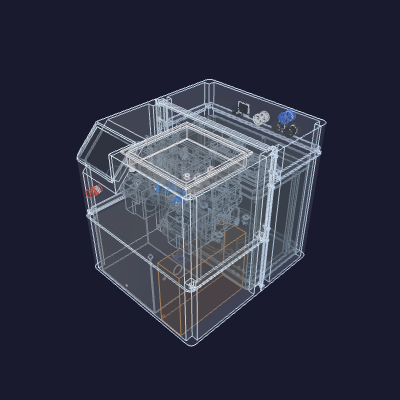
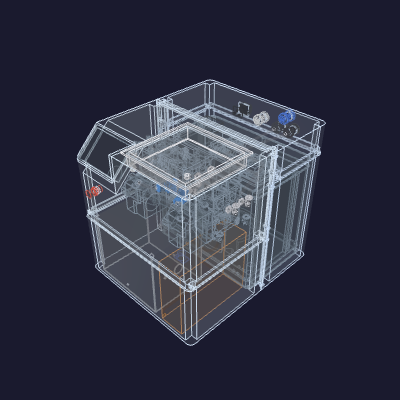
enclosure: turn both nozzle outlets up to the rear bulkheads — no reliefs
A stock PP0308E on each bare nozzle-gate east port (V-G-O/V-J-O), turning its line
up out of the +X wall pocket, and fluid-18/28 aft over the electronics shelf into
bulkhead-flavor-a/b. The gate does not move: GATE_WALL_INSET stays at 11, so the
junction pocket, the four discharge elbows and their runs are all untouched.

The pocket the fittings stand in is the cold core's own SIDE_RIB_INSET standoff off
the +X wall, which is one fitting depth deep at that inset. That standoff is also
the Y seam's corner-post lane, and enclosure.py read the lane with a y_joint-free
test — the frontmost content anywhere in it, at any y or z, which the seam then had
to sit entirely ahead of. That form was exact while the lane was empty; these are
the first fittings ever placed in it, and it drove y_joint 205.30 -> 81.56.

So the lane is now read where the furniture actually lands (`_chain_span_clear`
over `_corner_span`), with the old reading kept as the fallback. Nothing is cut:
the columns keep their full section, and the elbows sit 40 mm forward of the span
they occupy (elbows y 111.06–160.04; corner span y 200.30–234.70). The enclosure
pieces come out byte-identical — y_joint 205.30, splits (140.9, 267.0), both of the
seam features unmoved.

Both runs turn west out of the lane while still forward of that column, cross above
the gate (top z290.8) on their own decks, and ride over the pcba (top z283.0) in
separate x lanes into the bulkheads.
[…]

Changed region(s): [[0.18, 0.18, 0.81, 0.87]]

diff --git a/hardware/printed-parts/enclosure/enclosure-assembly/scorecard.py b/hardware/printed-parts/enclosure/enclosure-assembly/scorecard.py
@@ -131,6 +131,8 @@ COMPONENTS = [
     _c("elbow-bag-y-g", "real", True, "none", "JG PP0308E 90° elbow turning bag V-I-I (east) off the stack, rolled to aim its free leg at the Y-G divider's upper outlet (segment 23)"),
     _c("elbow-y-d", "real", True, "none", "JG PP0308E 90° elbow turning nozzle-gate V-J-I (flipped, west) off the stack, rolled to aim its free leg at the Y-G divider's lower outlet (segment 27)"),
     _c("elbow-y-g", "real", True, "none", "JG PP0308E 90° elbow turning nozzle-gate V-G-I (flipped, west) off the stack, rolled to aim its free leg at the Y-D divider's lower outlet (segment 17)"),
+    _c("elbow-noz-a", "real", True, "none", "JG PP0308E 90° elbow turning nozzle-gate V-G-O (east) up out of the +X wall pocket, free leg +Z onto its run aft to bulkhead-flavor-a (segment 18)"),
+    _c("elbow-noz-b", "real", True, "none", "JG PP0308E 90° elbow turning nozzle-gate V-J-O (east) up out of the +X wall pocket, free leg +Z onto its run aft to bulkhead-flavor-b (segment 28)"),
     # Electronics shelf
     _c("power-tray",        "real",        True,  "none", "printed tray holds its boards; tray-to-shell joinery deferred (power-tray README)"),
     _c("pcba",              "real",        True,  "none", "printed tray holds the board; tray-to-shell joinery deferred (pcba-tray README)"),
@@ -471,12 +473,12 @@ PORTS = [
     # Nozzle-gate assembly (Tray 3) — four boundary connectors, all bare valve port tips,
     # derived the same way through the tray's INVERTED pose (180° about Y, in the pocket
     # east of the bag assembly). V-G-I/V-J-I face WEST at the bag tray's east bank, each
-    # turned −Y by a discharge elbow onto its run to the divider; V-G-O/V-J-O face EAST at the wall,
-    # where the nozzle lines will leave for the rear umbilical.
+    # turned −Y by a discharge elbow onto its run to the divider; V-G-O/V-J-O face EAST into the
+    # +X wall pocket, each turned +Z by an outlet elbow onto its run aft to the rear umbilical.
     _p("V-G-I", "nozzle-gate-assembly", "fluid", *contents.noz_collet("VG-I"), 6.35, "Y-D-3 via elbow-y-g — segment 17 (routed)", "bare valve port collet, 1/4\" tube, facing west onto its discharge elbow"),
     _p("V-J-I", "nozzle-gate-assembly", "fluid", *contents.noz_collet("VJ-I"), 6.35, "Y-G-3 via elbow-y-d — segment 27 (routed)", "bare valve port collet, 1/4\" tube, facing west onto its discharge elbow"),
-    _p("V-G-O", "nozzle-gate-assembly", "fluid", *contents.noz_collet("VG-O"), 6.35, "Nozzle A by the rear umbilical (bulkhead-flavor-a) — segment 18 (unauthored)", "bare valve port collet, 1/4\" tube, facing east"),
-    _p("V-J-O", "nozzle-gate-assembly", "fluid", *contents.noz_collet("VJ-O"), 6.35, "Nozzle B by the rear umbilical (bulkhead-flavor-b) — segment 28 (unauthored)", "bare valve port collet, 1/4\" tube, facing east"),
+    _p("V-G-O", "nozzle-gate-assembly", "fluid", *contents.noz_collet("VG-O"), 6.35, "bulkhead-flavor-a via elbow-noz-a — segment 18 (routed)", "bare valve port collet, 1/4\" tube, facing east onto its outlet elbow"),
+    _p("V-J-O", "nozzle-gate-assembly", "fluid", *contents.noz_collet("VJ-O"), 6.35, "bulkhead-flavor-b via elbow-noz-b — segment 28 (routed)", "bare valve port collet, 1/4\" tube, facing east onto its outlet elbow"),
     # Pump row — each Kamoer's two boundary connectors are its outlet ELBOWS' free collets
     # (pump_assembly.py seats a PP0308E on each arch_xs outlet), carried through the lying
     # pose (−90° about Y, +90° roll about X) + the POS tuples: the elbows stand on the +Z
@@ -517,6 +519,10 @@ PORTS = [
     _p("free", "elbow-y-g", "fluid", *contents.elbow_free_pose("elbow-y-g"), 6.35, "y-d Y-D-3 — segment 17 (routed)", "PP0308E free collet, aimed at the Y-D lower outlet"),
     _p("free", "elbow-bag-y-g", "fluid", *contents.elbow_free_pose("elbow-bag-y-g"), 6.35, "y-g Y-G-2 — segment 23 (routed)", "PP0308E free collet, aimed at the Y-G upper outlet"),
     _p("free", "elbow-y-d", "fluid", *contents.elbow_free_pose("elbow-y-d"), 6.35, "y-g Y-G-3 — segment 27 (routed)", "PP0308E free collet, aimed at the Y-G lower outlet"),
+    # The two nozzle-outlet elbows' free collets — where each LLDPE run to a rear flavor bulkhead
+    # leaves, standing +Z out of the +X wall pocket.
+    _p("free", "elbow-noz-a", "fluid", *contents.outlet_free_pose("elbow-noz-a"), 6.35, "bulkhead-flavor-a tube-in — segment 18 (routed)", "PP0308E free collet, up out of the pocket"),
+    _p("free", "elbow-noz-b", "fluid", *contents.outlet_free_pose("elbow-noz-b"), 6.35, "bulkhead-flavor-b tube-in — segment 28 (routed)", "PP0308E free collet, up out of the pocket"),
     # Waveshare display — its data/power connector is NOT in the imported STEP (only the four
     # corner mounts are), so this one harness port is placed provisionally on the interior (+Y)
     # back face at the PCB centre. A viewer pick would pin it exactly.

diff --git a/hardware/printed-parts/enclosure/enclosure/enclosure.py b/hardware/printed-parts/enclosure/enclosure/enclosure.py
@@ -391,15 +391,25 @@ def _level_clear(inner, y0, y1, z_boss, x_in, sx, depth):
     return probe.intersect(waist).Volume() <= 1e-6
 
 
+def _chain_bands(inner):
+    """The two ±X boss-chain bands as (x0, x1) pairs — the walls' own standoff off
+    the cold core, where the seam's corner posts, mouth, plugs and pods stand."""
+    ix0, ix1 = inner[0], inner[1]
+    return [tuple(sorted((x_in, x_in + sx * boss_in)))
+            for x_in, sx in ((ix0, +1.0), (ix1, -1.0))]
+
+
 def _seam_bands_clear(placed, inner):
     """How far aft each part of the Y seam may reach before it meets content:
     (chain, ceiling) — the frontmost thing standing in the ±X boss-chain bands,
     and in the ceiling band the lip's top segment sweeps.
 
-    Those are the only two places the seam occupies. The chain bands are the
-    walls' own standoff off the cold core, so they run content-free alongside it;
-    the ceiling band rides above everything packed. Measured rather than
-    tabulated, so the seam follows the contents instead of drifting from them."""
+    Those are the only two places the seam occupies. This is the y_joint-free
+    reading of them — it asks where content STARTS, not whether content stands
+    where the furniture lands, so it can be measured before the seam is chosen.
+    It bounds the seam whenever the band ahead of the content is all the seam
+    can have; `_chain_span_clear` is what lets the seam pass content that sits
+    forward of the furniture entirely."""
     ix0, ix1, iy0, iy1, iz0, iz1 = inner
 
     def frontmost(prism):
@@ -411,10 +421,32 @@ def _seam_bands_clear(placed, inner):
         return limit
 
     chain = iy1
-    for x_in, sx in ((ix0, +1.0), (ix1, -1.0)):
-        xa, xb = sorted((x_in, x_in + sx * boss_in))
+    for xa, xb in _chain_bands(inner):
         chain = min(chain, frontmost(_ybox(xa, xb, iy0, iy1, iz0, iz1)))
     return chain, frontmost(_ybox(ix0, ix1, iy0, iy1, iz1 - wall, iz1))
+
+
+def _chain_span_clear(placed, inner, y0, y1):
+    """Whether both ±X boss-chain bands run empty over the Y span [y0, y1] — the
+    span the seam's own corner columns occupy, front half and back.
+
+    The bands are a lane, not a keep-out: what matters is that nothing stands
+    where the furniture lands, not that the furniture sits ahead of everything in
+    the lane. A fitting parked in the lane well forward of the columns leaves them
+    their full section and never meets them, so it does not move the seam."""
+    _ix0, _ix1, _iy0, _iy1, iz0, iz1 = inner
+    for xa, xb in _chain_bands(inner):
+        prism = _ybox(xa, xb, y0, y1, iz0, iz1)
+        for s, _c in placed.values():
+            if prism.intersect(s).Volume() > 1.0:
+                return False
+    return True
+
+
+def _corner_span(inner, y_joint):
+    """The whole Y reach of the Y-seam corner at `y_joint` — the front half's
+    column through the back half's, the two definitions the bands must hold."""
+    return _y_corner(inner, y_joint)[0], _y_corner_back(inner, y_joint)[1]
 
 
 def _dims():
@@ -499,8 +531,18 @@ def _dims():
     y_chain = chain_clear - 2.0 - chain
     y_ceiling = ceiling_clear - 2.0 - lip_len
     y_pack = cold.ymin + 2.0 + wall + z_lip_y_margin + 2.0 * socket_r
-    y_joint = max(facet_back_y + 2.0,
-                  min(max((iy0 + iy1) / 2.0, y_pack), y_chain, y_ceiling))
+    y_facet = facet_back_y + 2.0                     # the facet stays whole in the front pieces
+    y_want = max((iy0 + iy1) / 2.0, y_pack)          # the midpoint, or behind the front pack
+    want = max(y_facet, min(y_want, y_ceiling))
+    y_joint = max(y_facet, min(y_want, y_chain, y_ceiling))
+    # The chain cap above reads where band content STARTS, which holds the seam
+    # ahead of all of it. That is the answer only when the content is what the
+    # columns would land in. Content parked in the lane FORWARD of them — the
+    # nozzle-outlet elbows, in the +X band well ahead of the seam — leaves the
+    # columns their full section, so the seam takes the station it actually wants
+    # whenever the span those columns occupy is itself clear.
+    if want > y_joint and _chain_span_clear(placed, inner, *_corner_span(inner, want)):
+        y_joint = want
     # The Y-seam corner, probed at each depth something stands there: the front
     # half's column at the socket's full section (which also fixes where a level
     # may sit, since a level needs a socket body), and the back half's column —

diff --git a/hardware/printed-parts/enclosure/enclosure-assembly/_lines.py b/hardware/printed-parts/enclosure/enclosure-assembly/_lines.py
@@ -5,7 +5,7 @@ connection, its waypoints written against the ports and body faces that shape th
 
 Today: the sealed refrigerant loop (`scorecard.REFRIGERANT_SEGMENTS`) — the discharge and
 liquid legs authored, the suction leg unauthored — and the manifold's junction column, fully
-joined: both trays' west collets into the union tees hanging between them. Three corridors
+joined: both trays' west collets into the union tees hanging between them. Four corridors
 carry the authored legs, each measured off the faces that bound it:
 
   * the machine corridor — 49 mm, compressor back face to cold-core front face — with the
@@ -26,6 +26,11 @@ carry the authored legs, each measured off the faces that bound it:
     are straight tube, ~10 mm each, no bends. Each tee's branch is then rolled about the run
     (`JUNCTION_ROLL`) to swing forward off the pump row, and fluid-11/21 carry the suction
     over pump A to the pump inlets.
+  * the +X wall pocket and the shelf deck above it — the cold core's own standoff off that
+    wall, where the two nozzle-outlet elbows stand, and the open band over the electronics
+    shelf that fluid-18/28 cross to reach the rear flavor bulkheads. The pocket is also the
+    Y seam's corner-post lane, so both runs turn west out of it while still forward of that
+    column, then ride their own decks over the pcba into the bulkheads.
 
 Precedent: `pcba.tsx`'s `route(...)` call sites.
 """
@@ -58,11 +63,12 @@ BLOCKED: dict = {}
 
 
 def _frames():
-    """A frame per placed component: its body box from the pack, its ports from the scorecard's
-    port table."""
+    """A frame per placed component AND per through-wall panel body: its body box from the pack,
+    its ports from the scorecard's port table. The panel bodies (the rear bulkheads) are not
+    interior components, but a run terminates on their inward collet, so they carry a frame too."""
     import scorecard                                   # deferred: scorecard reads this module back
 
-    placed = contents.build()
+    placed = {**contents.build(), **contents.panel_bodies()}
     by_comp: dict = {}
     for p in scorecard.PORTS:
         if p.pos is not None and p.face and p.component in placed:
@@ -194,6 +200,23 @@ def build_runs() -> list:
         "pump-a.P-A-I",
         kind="fluid", bend=10.0, skew=DISCHARGE_SKEW, lead=SLEAD,
         note="suction stem tee-y-f Y-F-3 → pump-a P-A-I, up the west end then east above the source tray"))
+
+    # The nozzle-outlet runs (segments 18/28) — each outlet elbow's free leg up out of the +X wall
+    # pocket, then aft over the electronics shelf into its rear flavor bulkhead's inward collet.
+    # Both leave the pocket on the SAME x, so they separate in z before either turns: 28 climbs to
+    # its own deck and crosses west above 18. Each turns west while still FORWARD of the Y seam's
+    # corner column (y 200.3–234.7 in this band) — the pocket lane is the column's, and a run
+    # holding it further aft would drive straight through the post. The westward legs cross above
+    # the gate (top z290.8) and both aft legs ride over the pcba (top z283.0) in their own x lanes.
+    for cid, elb, bulk, mids in (
+        ("fluid-18", "elbow-noz-a", "bulkhead-flavor-a",        # low deck, west lane
+         [(289.20, 180.0, 292.45), (195.05, 180.0, 292.45)]),
+        ("fluid-28", "elbow-noz-b", "bulkhead-flavor-b",        # high deck, east lane
+         [(289.20, 190.0, 312.0), (224.95, 190.0, 312.0)]),
+    ):
+        runs.append(R.bent(cid, f"{elb}.free", *mids, f"{bulk}.tube-in",
+                           kind="fluid", bend=8.0, skew=DISCHARGE_SKEW, lead=(10.0, 10.0),
+                           note=f"nozzle outlet: {elb} → {bulk}, up out of the pocket and aft over the shelf"))
 
     return runs
 

diff --git a/hardware/printed-parts/enclosure/enclosure-assembly/_contents.py b/hardware/printed-parts/enclosure/enclosure-assembly/_contents.py
@@ -504,6 +504,8 @@ COLORS = {
     "elbow-y-g":         cq.Color(0.85, 0.85, 0.88),
     "elbow-bag-y-d":     cq.Color(0.85, 0.85, 0.88),
     "elbow-bag-y-g":     cq.Color(0.85, 0.85, 0.88),
+    "elbow-noz-a":       cq.Color(0.85, 0.85, 0.88),
+    "elbow-noz-b":       cq.Color(0.85, 0.85, 0.88),
     "power-tray":        cq.Color(0.80, 0.50, 0.20),
     "pcba":              cq.Color(0.15, 0.45, 0.25),
     "dc-dist":           cq.Color(0.20, 0.20, 0.22),
@@ -629,6 +631,26 @@ DISCHARGE_DIV = {
 DISCHARGE_YAW = {                             # extra Z-turn of a divider: stem toward its pump, outlets the same off their elbows
     "y-d": 16.0,
 }
+
+# ── Nozzle-outlet elbows ─────────────────────────────────────────────────────────────────────
+# A PP0308E on each bare nozzle-gate outer port (V-G-O/V-J-O, facing east), turning its nozzle
+# line UP out of the +X wall pocket, where the run climbs aft over the electronics shelf to the
+# rear flavor bulkhead (segments 18/28). Each body stands in the pocket between the gate's east
+# ports and the +X wall — the cold core's own SIDE_RIB_INSET standoff, which is one fitting depth
+# deep at GATE_WALL_INSET. Nothing is cut for them: the gate keeps its X station, so the junction
+# pocket west of it is untouched, and the wall's seam machinery clears this band on its own — the
+# front Z-lip rim tops out well below these bodies, and the Y-seam corner column stands aft of them.
+OUTLET_ELBOW = {                              # elbow → the nozzle-gate outer port it turns
+    "elbow-noz-a": "VG-O",                    # nozzle A → bulkhead-flavor-a
+    "elbow-noz-b": "VJ-O",                    # nozzle B → bulkhead-flavor-b
+}
+OUTLET_FREE = (0.0, 0.0, 1.0)                 # free leg UP, leaving the pocket for the run aft
+
+
+def outlet_free_pose(name):
+    """A nozzle-outlet elbow's free (empty) port in world: (position, outward axis) — where its run
+    to the rear flavor bulkhead leaves, one bend up off the pocket."""
+    return _elbow_free_port(noz_collet(OUTLET_ELBOW[name]), OUTLET_FREE, ELBOW_STUB), OUTLET_FREE
 
 
 def _discharge_collet(name):
@@ -960,6 +982,12 @@ def build():
     divider = _load(DIVIDER_CONNECTOR)
     for name in DISCHARGE_DIV:
         placed[name] = _place_divider(divider, name)
+
+    # The nozzle-outlet elbows — each bare east port turned up into the +X wall pocket the
+    # cold core's boss chain opens (OUTLET_ELBOW).
+    for name, port in OUTLET_ELBOW.items():
+        collet = noz_collet(port)
+        placed[name] = _place_elbow(elbow, collet[0], collet[1], OUTLET_FREE, ELBOW_STUB)
 
     # --- Zone B, the band above the cold core: the electronics shelf lying
     # flat on the foam-cap top, tray/board planes horizontal, everything in
